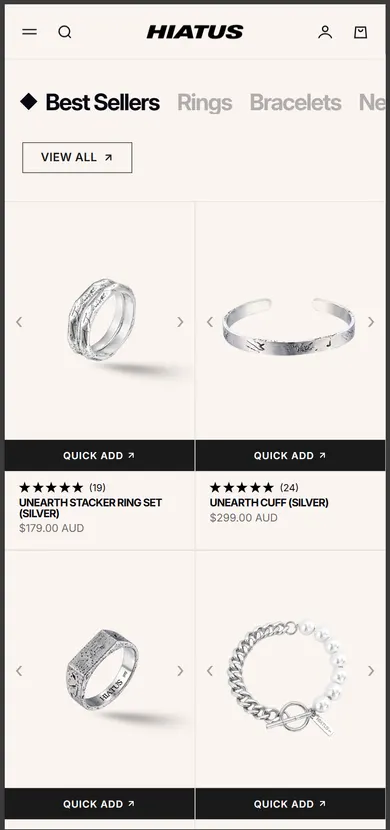
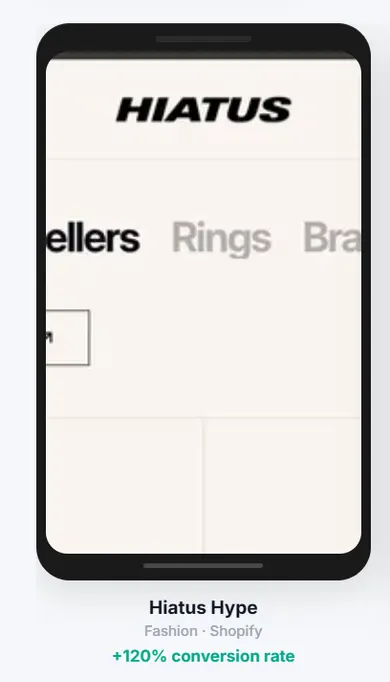
Static screenshot in phone frame, remove scroll animation

diff --git a/assets/site.css b/assets/site.css
@@ -153,9 +153,7 @@ img{max-width:100%;display:block}
 .gt-notch{width:80px;height:6px;background:#2a2a2a;border-radius:3px;margin:0 auto 8px}
 .gt-viewport{border-radius:18px;overflow:hidden;position:relative;height:420px}
 .gt-home-bar{width:100px;height:4px;background:rgba(255,255,255,.2);border-radius:2px;margin:8px auto 0}
-.gt-scroll-img{width:100%;height:300%;position:absolute;top:0;left:0;transition:transform 0s;background-size:cover;background-position:top center}
-.gallery-tile:hover .gt-scroll-img,.gallery-tile.active .gt-scroll-img{animation:gt-scroll 6s ease-in-out forwards}
-@keyframes gt-scroll{0%{transform:translateY(0)}100%{transform:translateY(-66.67%)}}
+.gt-scroll-img{width:100%;height:100%;position:absolute;top:0;left:0;background-size:cover;background-position:top center}
 
 /* Browser frame */
 .gt-frame.gt-desktop{background:#1a1a1a;border-radius:14px;padding:0;box-shadow:0 8px 32px rgba(0,0,0,.12),inset 0 1px 0 rgba(255,255,255,.08);overflow:hidden}